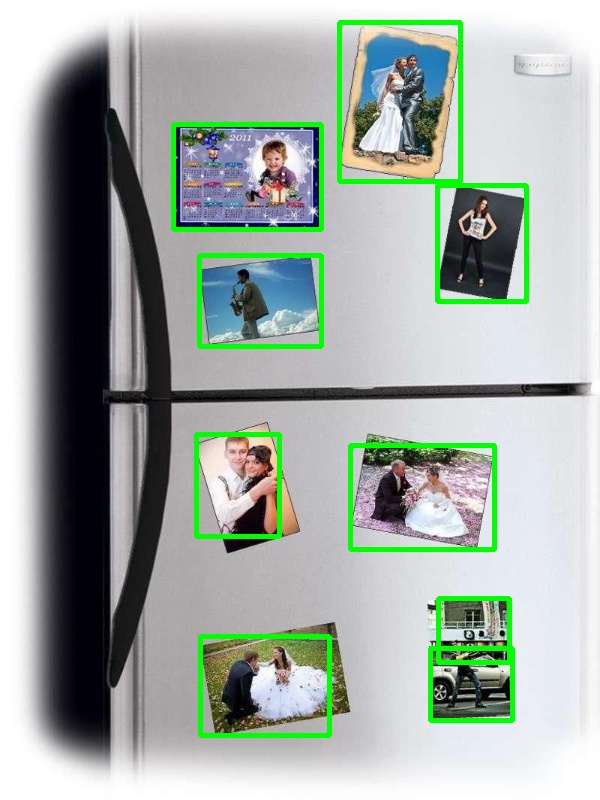
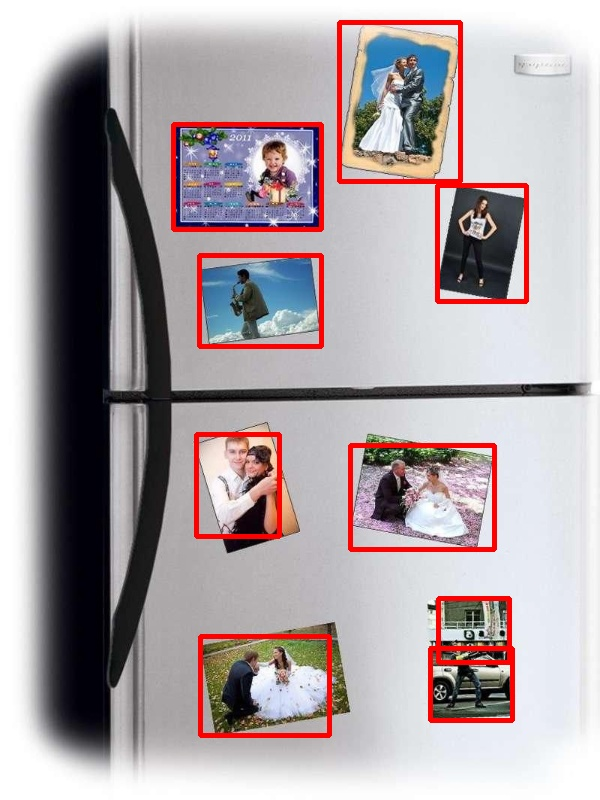
HW_LESSON_4.py

diff --git a/HW_lesson_4.py b/HW_lesson_4.py
@@ -11,16 +11,19 @@ edges = cv2.Canny(blurred, 50, 150)
 
 contours, _= cv2.findContours(edges, cv2.RETR_EXTERNAL, cv2.CHAIN_APPROX_SIMPLE)
 
+objects_found = 0
+
 for contour in contours:
     area = cv2.contourArea(contour)
     
     if area > 100:        
         x, y, w, h = cv2.boundingRect(contour)
+        objects_found += 1
         
-        cv2.rectangle(img, (x, y), (x + w, y + h), (0, 255, 0), 3)
+        cv2.rectangle(img, (x, y), (x + w, y + h), (0, 0, 255), 3)
 
+print(f'Кількість знайдених об\'єктів: {objects_found}')
 cv2.imshow('img', img)
-
 cv2.imwrite('rendered_images/fridge_detected.jpg', img)
 
 cv2.waitKey(0)
